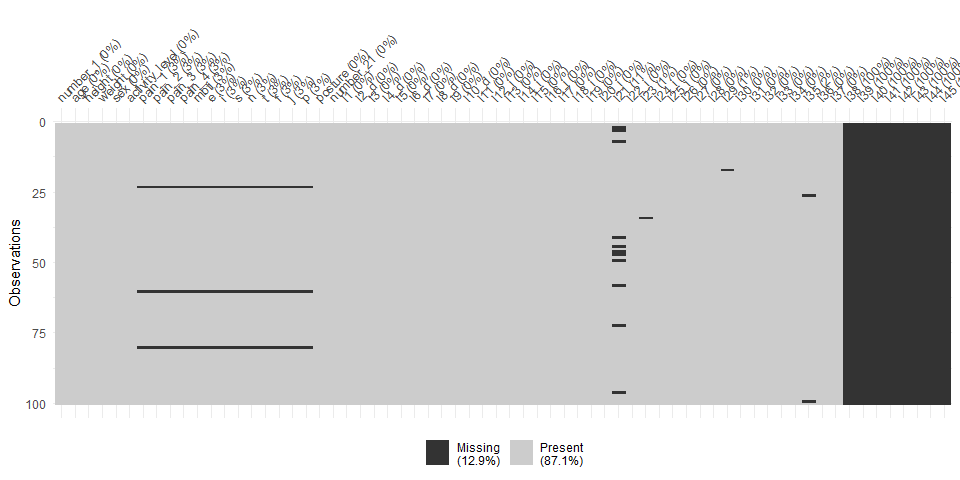
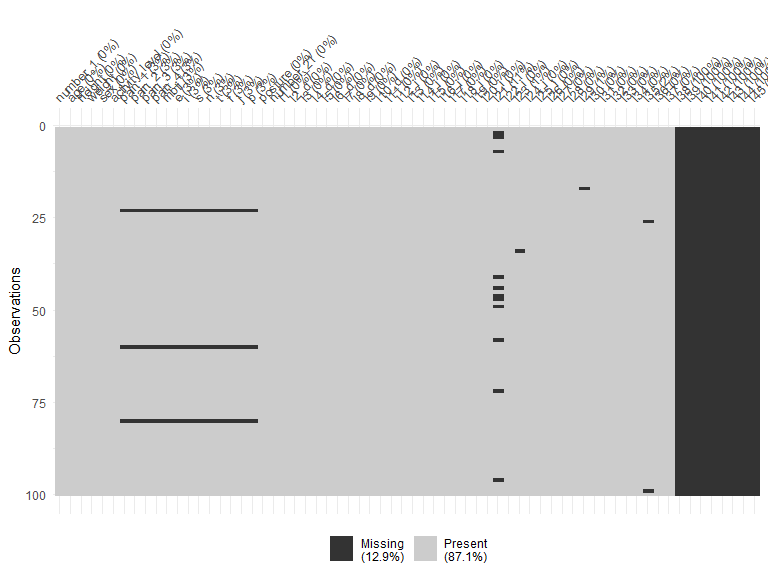
Change vis_dat pallete

diff --git a/predicting_personality.md b/predicting_personality.md
@@ -1,7 +1,7 @@
 Posture Project
 ================
 Giovani Gutierrez
-2023-02-15
+2023-03-13
 
 - <a href="#1-getting-started" id="toc-1-getting-started">1 Getting
   Started</a>
@@ -130,7 +130,7 @@ data1 <- data1 %>%
     select(-e & -i)  # coerce variables into appropriate type
 
 data1 %>%
-    vis_dat()  # visualize variable types
+    vis_dat() + scale_fill_brewer(palette = "Pastel1")  # visualize variable types
 ```
 
 <img src="predicting_personality_files/figure-gfm/missing values-2.png" style="display: block; margin: auto;" />
@@ -184,8 +184,8 @@ head(data1)  # preview cleaned data
   26 (high).
 - `p`: A participant’s perceiving characteristic on a scale from 1 (low)
   to 26 (high).
-- `posture`: Type of posture exhibited by a participant (ideal posture
-  (A), kyphosis-lordosis (B), flat-back (C), and sway-back (D)).
+- `posture`: Type of posture exhibited by a participant (ideal posture =
+  ‘A’, kyphosis-lordosis = ‘B’, flat-back = ‘C’, and sway-back = ‘D’).
 - `e_i`: Categorization of participant as an extrovert or introvert;
   based on whichever score was higher on their MBTI questionnaire.
 
@@ -196,6 +196,7 @@ data1 %>%
     select_if(is.numeric) %>%
     correlate() %>%
     rearrange() %>%
+    shave(upper = TRUE) %>%
     rplot(colours = c("darkorange", "white", "midnightblue"))
 ```
 
